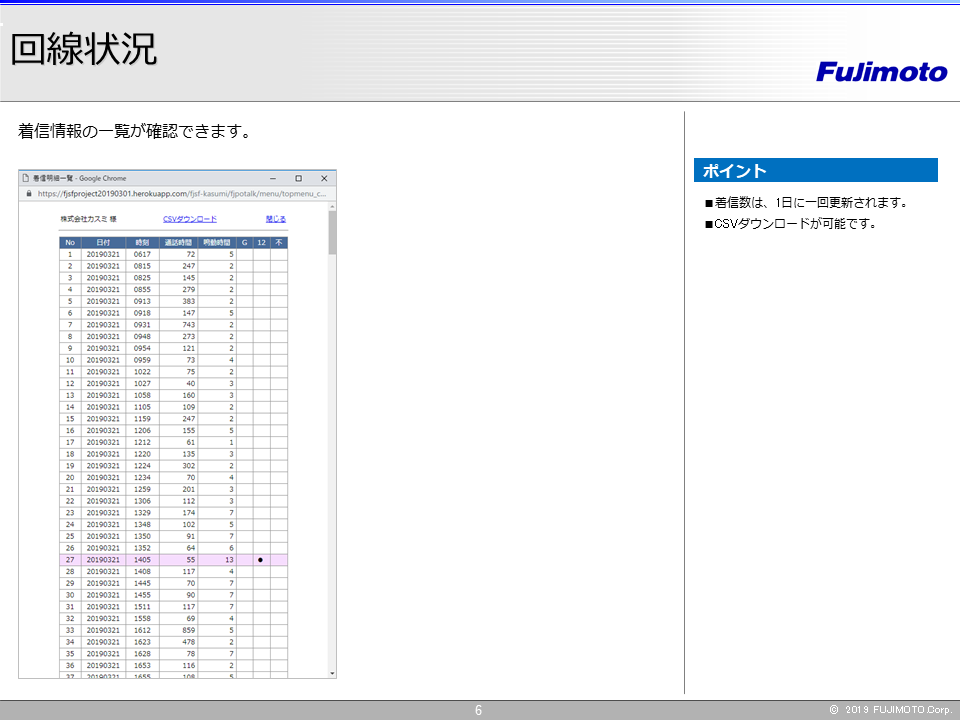
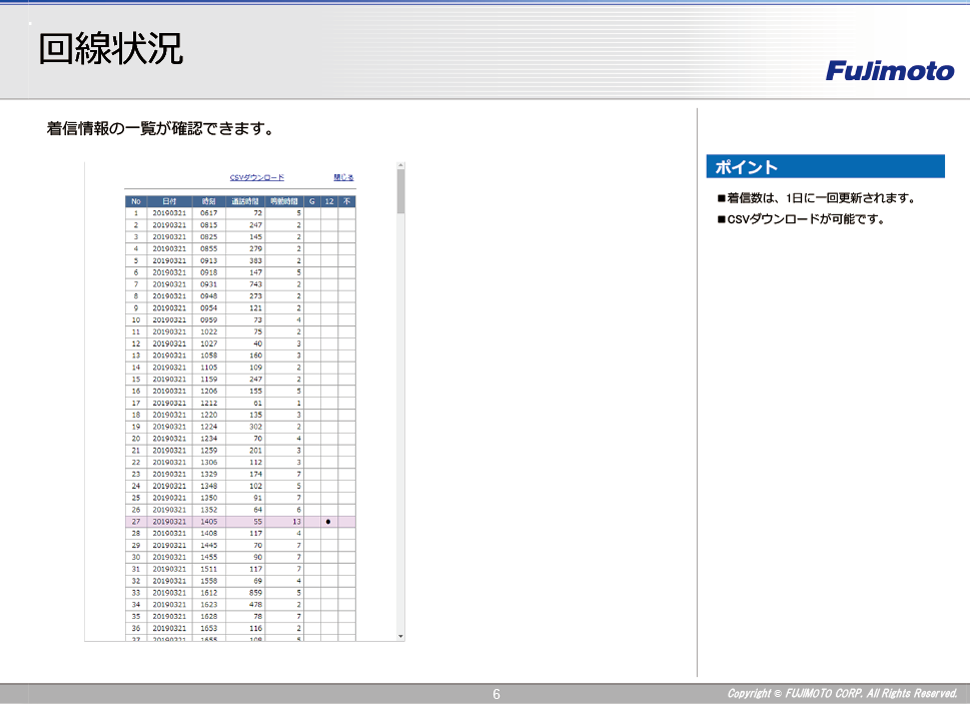
no message

diff --git a/fjsf-kasumi/fjpotalk/manu/manual_foruser.html b/fjsf-kasumi/fjpotalk/manu/manual_foruser.html
@@ -25,7 +25,7 @@
 <!-- 1P -->
 <a name="a0" id="a0"></a>
 <div class="manu_base">
-<img src="img/1.PNG" alt="表紙" width="960" height="720" align="absmiddle" /></div>
+<img src="img/1.PNG" alt="表紙" width="970" height="704" align="absmiddle" /></div>
 <div class="manu_menu" >
    <div class="manu_menu_box" ><a href="https://starboardc.fujimoto.co.jp/fjsf-kasumi/fjpotalk/menu/topmenu.php">←戻る</a></div>
   <div class="manu_menu_box manu_menu_box_right"><a href="#a2">次へ→</a></div>
@@ -34,7 +34,7 @@
 <!-- 2P -->
 <a name="a1" id="a0"></a>
 <div class="manu_base">
-<img src="img/2.PNG" alt="目次" width="960" height="720" align="absmiddle" /></div>
+<img src="img/2.PNG" alt="目次" width="970" height="704" align="absmiddle" /></div>
 <div class="manu_menu" >
    <div class="manu_menu_box" ><a href="#a0">←戻る</a></div>
   <div class="manu_menu_box manu_menu_box_right"><a href="#a3">次へ→</a></div>
@@ -43,7 +43,7 @@
 <!-- 3P -->
 <a name="a2" id="a0"></a>
 <div class="manu_base">
-<img src="img/3.PNG" alt="ログイン" width="960" height="720" align="absmiddle" /></div>
+<img src="img/3.PNG" alt="ログイン" width="970" height="704" align="absmiddle" /></div>
 <div class="manu_menu" >
    <div class="manu_menu_box" ><a href="#a1">←戻る</a></div>
   <div class="manu_menu_box manu_menu_box_right"><a href="#a3">次へ→</a></div>
@@ -52,7 +52,7 @@
 <!-- 4P -->
 <a name="a3" id="a0"></a>
 <div class="manu_base">
-<img src="img/4.PNG" alt="メインメニュー" width="960" height="720" align="absmiddle" /></div>
+<img src="img/4.PNG" alt="メインメニュー" width="970" height="704" align="absmiddle" /></div>
 <div class="manu_menu" >
    <div class="manu_menu_box" ><a href="#a2">←戻る</a></div>
   <div class="manu_menu_box manu_menu_box_right"><a href="#a4">次へ→</a></div>
@@ -61,7 +61,7 @@
 <!-- 5P -->
 <a name="a4" id="a0"></a>
 <div class="manu_base">
-<img src="img/5.PNG" alt="インシデント一覧" width="960" height="720" align="absmiddle" /></div>
+<img src="img/5.PNG" alt="インシデント一覧" width="970" height="704" align="absmiddle" /></div>
 <div class="manu_menu" >
    <div class="manu_menu_box" ><a href="#a3">←戻る</a></div>
   <div class="manu_menu_box manu_menu_box_right"><a href="#a5">次へ→</a></div>
@@ -70,7 +70,7 @@
 <!-- 6P -->
 <a name="a5" id="a0"></a>
 <div class="manu_base">
-<img src="img/6.PNG" alt="インシデント内容確認" width="960" height="720" align="absmiddle" /></div>
+<img src="img/6.PNG" alt="インシデント内容確認" width="970" height="704" align="absmiddle" /></div>
 <div class="manu_menu" >
    <div class="manu_menu_box" ><a href="#a4">←戻る</a></div>
   <div class="manu_menu_box manu_menu_box_right"><a href="#a6">次へ→</a></div>
@@ -79,7 +79,7 @@
 <!-- 7P -->
 <a name="a6" id="a0"></a>
 <div class="manu_base">
-<img src="img/7.PNG" alt="回線状況" width="960" height="720" align="absmiddle" /></div>
+<img src="img/7.PNG" alt="回線状況" width="970" height="704" align="absmiddle" /></div>
 <div class="manu_menu" >
    <div class="manu_menu_box" ><a href="#a5">←戻る</a></div>
   <div class="manu_menu_box manu_menu_box_right"><a href="#a7">次へ→</a></div>
@@ -88,7 +88,7 @@
 <!-- 8P -->
 <a name="a7" id="a0"></a>
 <div class="manu_base">
-<img src="img/8.PNG" alt="店舗一覧" width="960" height="720" align="absmiddle" /></div>
+<img src="img/8.PNG" alt="店舗一覧" width="970" height="704" align="absmiddle" /></div>
 <div class="manu_menu" >
    <div class="manu_menu_box" ><a href="#a6">←戻る</a></div>
   <div class="manu_menu_box manu_menu_box_right"><a href="#a8">次へ→</a></div>
@@ -97,7 +97,7 @@
 <!-- 9P -->
 <a name="a8" id="a0"></a>
 <div class="manu_base">
-<img src="img/9.PNG" alt="機種一覧" width="960" height="720" align="absmiddle" /></div>
+<img src="img/9.PNG" alt="機種一覧" width="970" height="704" align="absmiddle" /></div>
 <div class="manu_menu" >
    <div class="manu_menu_box" ><a href="#a7">←戻る</a></div>
   <div class="manu_menu_box manu_menu_box_right"><a href="#a9">次へ→</a></div>
@@ -106,7 +106,7 @@
 <!-- 10P -->
 <a name="a9" id="a0"></a>
 <div class="manu_base">
-<img src="img/10.PNG" alt="月次定例会資料" width="960" height="720" align="absmiddle" /></div>
+<img src="img/10.PNG" alt="月次定例会資料" width="970" height="704" align="absmiddle" /></div>
 <div class="manu_menu" >
   <div class="manu_menu_box" ><a href="#a8">←戻る</a></div>
   <div class="manu_menu_box manu_menu_box_right"><a href="#a0">トップへ→</a></div>
